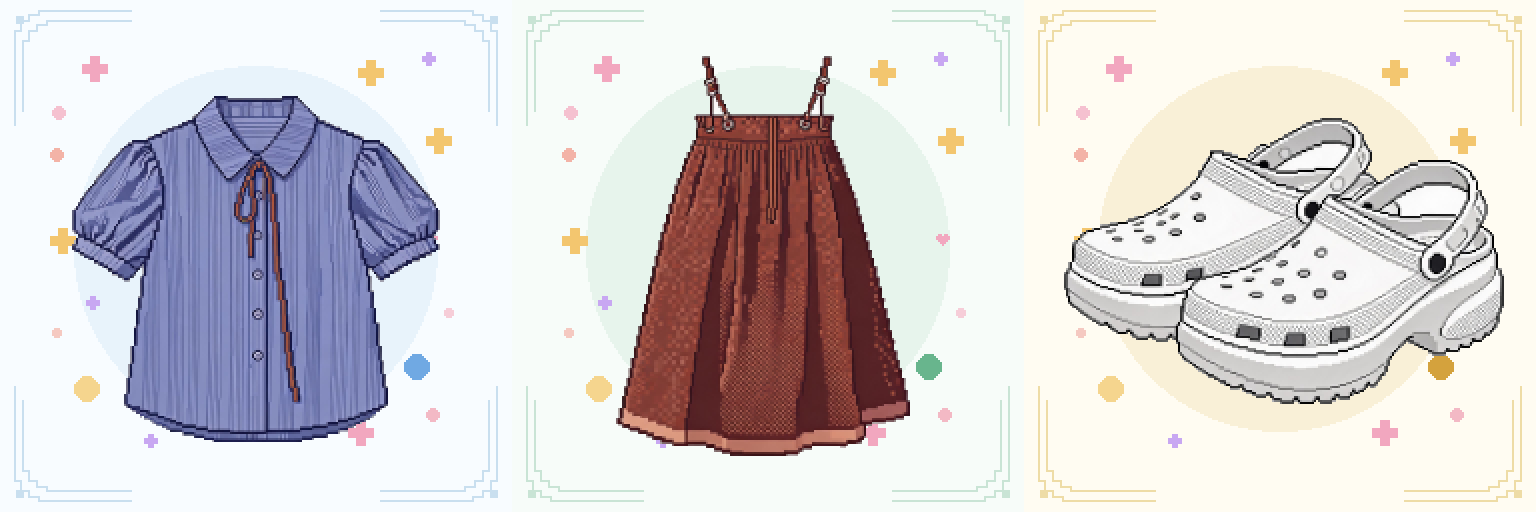
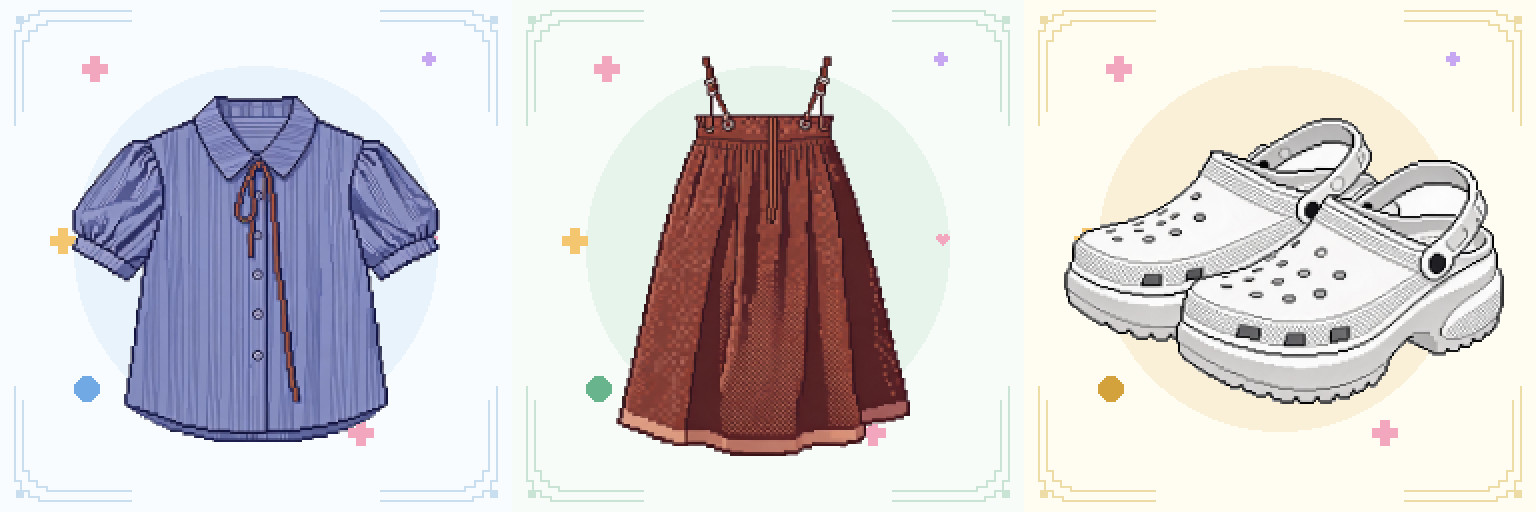
fix: reduce item pixel card decorations

diff --git a/services/backend/src/stylecapture_backend/features/item_presentation/processing.py b/services/backend/src/stylecapture_backend/features/item_presentation/processing.py
@@ -414,12 +414,13 @@ def normalize_pixel_card_output(
             sha256=sha256(body).hexdigest(),
         ),
         {
-            "quality_gate": "ornate-pixel-card-square-v3",
+            "quality_gate": "ornate-pixel-card-square-v4",
             "light_border_ratio": round(light_border_ratio, 4),
             "background_palette": palette.name,
             "background_recolored_ratio": round(background_ratio, 4),
             "pixel_grid": "256x256",
-            "decorations": "stylecapture-ornate-asymmetric-frame-v3",
+            "decorations": "stylecapture-ornate-asymmetric-frame-v4",
+            "decoration_count": 6,
         },
     )
 
@@ -531,26 +532,15 @@ def _draw_asymmetric_pixel_decorations(
     pink = "#F2A7BF"
     lilac = "#C8A7F2"
     yellow = "#F3C66F"
-    coral = "#F3B3A7"
     for x, y, color, unit in (
         (47, 34, pink, 2),
         (214, 29, lilac, 1),
-        (185, 36, yellow, 2),
         (31, 120, yellow, 2),
-        (219, 70, yellow, 2),
-        (46, 151, lilac, 1),
-        (75, 220, lilac, 1),
         (180, 216, pink, 2),
     ):
         _draw_pixel_sparkle(draw, x=x, y=y, unit=unit, color=color)
     _draw_pixel_heart(draw, x=215, y=117, unit=1, color=pink)
-    _draw_pixel_dot(draw, x=29, y=56, unit=1, color="#F5C1D0")
-    _draw_pixel_dot(draw, x=28, y=77, unit=1, color=coral)
-    _draw_pixel_dot(draw, x=43, y=194, unit=2, color="#F5D58E")
-    _draw_pixel_dot(draw, x=208, y=183, unit=2, color=palette.accent)
-    _draw_pixel_dot(draw, x=216, y=207, unit=1, color="#F3B9C5")
-    _draw_pixel_plus(draw, x=28, y=166, unit=1, color="#F5C9C1")
-    _draw_pixel_plus(draw, x=224, y=156, unit=1, color="#F6CDD8")
+    _draw_pixel_dot(draw, x=43, y=194, unit=2, color=palette.accent)
 
 
 def _draw_pixel_sparkle(

diff --git a/services/backend/tests/item_presentation/test_item_presentation_processing.py b/services/backend/tests/item_presentation/test_item_presentation_processing.py
@@ -233,7 +233,7 @@ async def test_item_pixel_records_capability_prompt_and_schema_versions() -> Non
         "stylecapture-item-pixel-2026-08-09-clean-subject"
     )
     assert stored.provider_trace.parameters["schema_version"] == (
-        "ornate-asymmetric-pixel-card-square-v3"
+        "ornate-asymmetric-pixel-card-square-v4"
     )
     assert stored.provider_trace.parameters["output_canvas"] == "1024x1024"
     assert stored.provider_trace.parameters["background_palette"] in {
@@ -268,7 +268,8 @@ def test_pixel_card_recolors_connected_gray_background_with_stable_variety() -> 
     recolored_ratio = first_quality["background_recolored_ratio"]
     assert isinstance(recolored_ratio, float)
     assert recolored_ratio > 0.5
-    assert first_quality["decorations"] == "stylecapture-ornate-asymmetric-frame-v3"
+    assert first_quality["decorations"] == "stylecapture-ornate-asymmetric-frame-v4"
+    assert first_quality["decoration_count"] == 6
     with Image.open(BytesIO(first.body)) as first_card:
         assert first_card.size == (1024, 1024)
         corner_frame = cast(tuple[int, int, int], first_card.getpixel((76, 20)))

diff --git a/services/backend/src/stylecapture_backend/features/item_presentation/application.py b/services/backend/src/stylecapture_backend/features/item_presentation/application.py
@@ -23,10 +23,10 @@ from stylecapture_backend.features.render.domain import (
 )
 from stylecapture_backend.features.wardrobe.domain import WardrobeItem
 
-PIXEL_ITEM_SIGNATURE_VERSION = "item-pixel-v4"
+PIXEL_ITEM_SIGNATURE_VERSION = "item-pixel-v5"
 PIXEL_ITEM_PROMPT_VERSION = "stylecapture-item-pixel-2026-08-09-clean-subject"
 PIXEL_ITEM_CAPABILITY_ID = "item.pixel_presentation"
-PIXEL_ITEM_SCHEMA_VERSION = "ornate-asymmetric-pixel-card-square-v3"
+PIXEL_ITEM_SCHEMA_VERSION = "ornate-asymmetric-pixel-card-square-v4"
 FLAT_LAY_ITEM_SIGNATURE_VERSION = "item-flat-lay-v2"
 FLAT_LAY_ITEM_CAPABILITY_ID = "item.generated_flat_lay"
 FLAT_LAY_ITEM_SCHEMA_VERSION = "seedream-white-3x4-v1"

diff --git a/docs/exec-plans/0050-item-pixel-card-art-direction.md b/docs/exec-plans/0050-item-pixel-card-art-direction.md
@@ -4,13 +4,13 @@
 
 ## 目标
 
-让 `按单品` 双列瀑布流的 1:1 像素卡符合已确认的 StyleCapture 收藏卡语言：主体完整、背景柔和但不统一灰白，中央没有黑灰光圈，四角具有阶梯双线层次，装饰固定但不镜像。
+让 `按单品` 双列瀑布流的 1:1 像素卡符合已确认的 StyleCapture 收藏卡语言：主体完整、背景柔和但不统一灰白，中央没有黑灰光圈，四角具有阶梯双线层次，每张卡只保留 4–7 个固定但不镜像的小装饰。
 
 ## 用户可见结果
 
 - `pixel_item` 仍输出 1024×1024 PNG，只用于单品缩略卡。
 - 豆包只生成近白背景上的像素单品主体，不生成光圈、投影、边框或装饰。
-- 后端在 256×256 逻辑网格合成高明度外底、无模糊中心色块、阶梯双线四角和固定非对称装饰，再用最近邻放大。
+- 后端在 256×256 逻辑网格合成高明度外底、无模糊中心色块、阶梯双线四角和 6 个固定非对称小装饰，再用最近邻放大。
 - 不向豆包传入额外风格参考图片；上传图或 Item 图只作为单品内容输入。
 - 不新增额外模型审美检查或二次生成调用。
 - 3:4 `flat_lay_item` 详情图链路保持不变。
@@ -57,3 +57,4 @@
 - 2026-08-09：卡框和装饰由后端模板负责；模型提示明确禁止自行生成这些元素，避免双重构图。
 - 2026-08-09：保留多套高明度背景色，但统一使用同一种阶梯边框与非镜像装饰语法。
 - 2026-08-09：本轮不增加额外模型质量检查；继续保留低成本的解码、尺寸和浅色安全边验证。
+- 2026-08-09：装饰数量从 16 个收敛为 6 个（允许范围 4–7 个），并升级像素资产签名与卡面 schema，避免旧缓存继续返回装饰过多的版本。

diff --git a/skills/generate-outfit-item-assets/SKILL.md b/skills/generate-outfit-item-assets/SKILL.md
@@ -36,7 +36,7 @@ description: 通过 StyleCapture Product API，为新抓取的视频截图或上
 - 只保留一个目标单品，正面居中且完整可见。鞋保留一双；明确成组的配饰才允许整组出现。
 - 主体使用统一硬边 16-bit / 32-bit 商品像素画：深一档同色描边、有限色阶、像素块大小一致；禁止半写实半像素、模糊、平滑抗锯齿、3D 和照片质感。
 - 只用文字提示词约束像素风格，不向图像模型附加风格参考图。上传图或 Item 图只用于保留目标单品的真实颜色、版型和结构。
-- 模型只生成纯净浅底上的像素单品主体，不生成卡片圆环、阴影、边框或装饰。后端从蜜桃、丁香紫、晴空蓝、薄荷绿、奶油黄和莓果粉中稳定选择柔和色板，合成无模糊的低对比中心色块、阶梯双线四角与固定但非对称的装饰布局。
+- 模型只生成纯净浅底上的像素单品主体，不生成卡片圆环、阴影、边框或装饰。后端从蜜桃、丁香紫、晴空蓝、薄荷绿、奶油黄和莓果粉中稳定选择柔和色板，合成无模糊的低对比中心色块、阶梯双线四角与固定但非对称的装饰布局；每张卡只保留 4–7 个小装饰，默认 6 个，边框节点不计入数量。
 - 后端在 256×256 逻辑像素网格完成卡面合成，再用最近邻放大到 1024×1024；不得使用高斯光晕或全图重着色制造灰黑环。
 - 发布前必须通过 1:1 尺寸和浅色安全边质量门槛。失败时保留彩色内置像素图标，不得回退为人物截图或 3:4 白底图。
 

diff --git a/skills/generate-outfit-item-assets/references/pixel-item-card-style.md b/skills/generate-outfit-item-assets/references/pixel-item-card-style.md
@@ -6,7 +6,7 @@
 - 主体：单个服装或成对鞋履，正面居中，完整轮廓，约占画布 60%–72%。长裙可适当提高到约 78%，但不得碰边。
 - 背景：从蜜桃、丁香紫、晴空蓝、薄荷绿、奶油黄和莓果粉的高明度柔和色板中稳定选择；同一 Item 重试保持一致，不同 Item 形成色彩变化。中央只允许边界清楚、低对比、无模糊的浅色圆形色块；不得出现灰黑色圆环、径向暗角或大面积投影。
 - 边框：四角使用细线、双层、阶梯回折的像素边框。角部包含错位节点、小方块和至少两级转折；上下边在中央断开。禁止退化为四个普通 L 形直角。
-- 装饰：采用固定但非对称的人工布局。混合不同大小的四角星、十字、像素圆点和至多一个小爱心；左右不得镜像配对，色彩使用粉、淡紫、奶油黄和当前色板强调色。装饰只出现在主体安全区之外。
+- 装饰：采用固定但非对称的人工布局。每张卡只保留 4–7 个小装饰，默认 6 个，边框转折和节点不计入数量。混合不同大小的四角星、十字、像素圆点和至多一个小爱心；左右不得镜像配对，色彩使用粉、淡紫、奶油黄和当前色板强调色。装饰只出现在主体安全区之外。
 
 ## 像素语言
 
